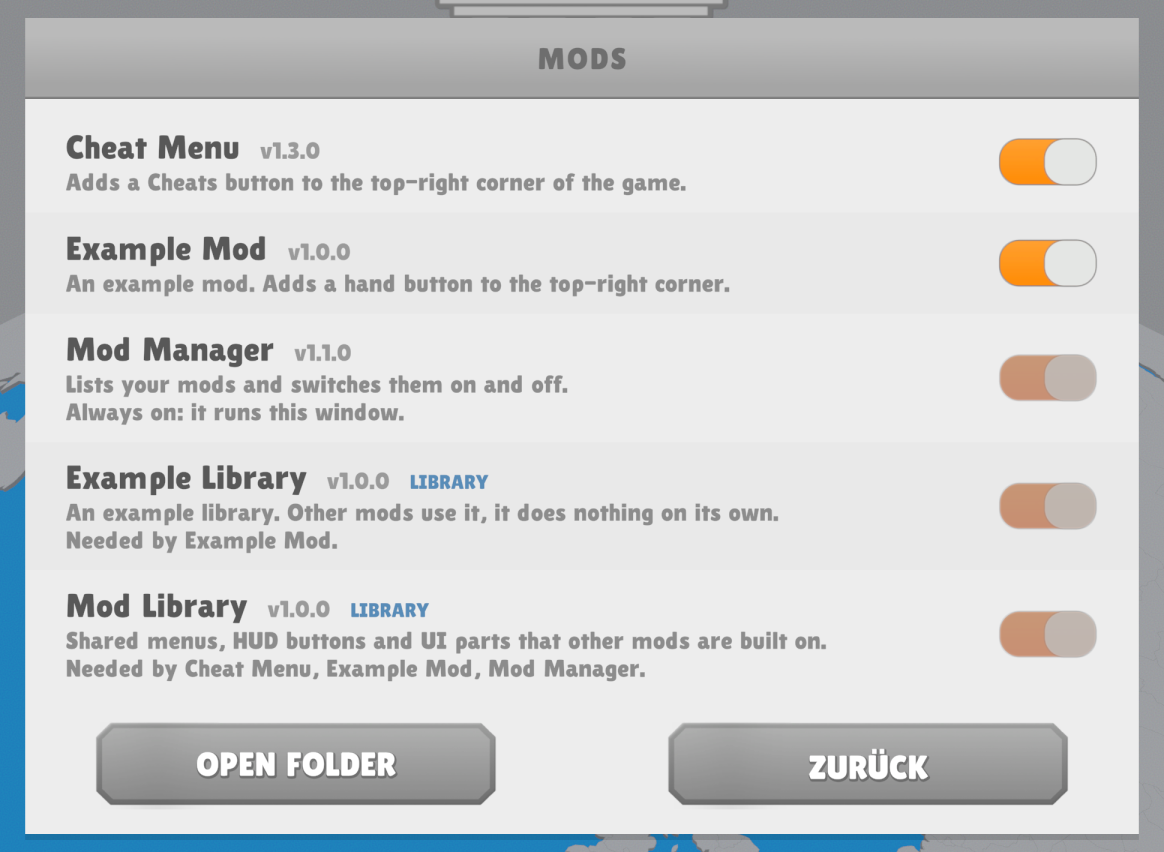
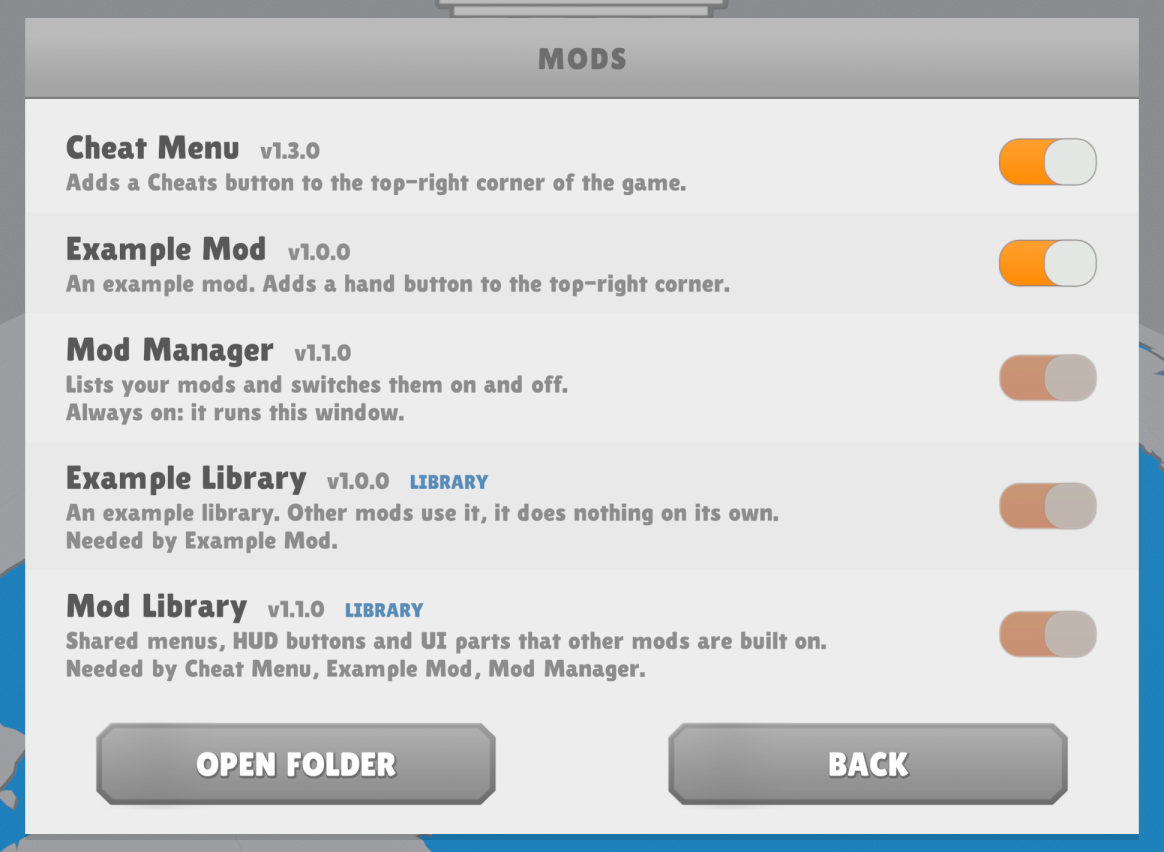
Retake screenshots in English and center the main menu image

diff --git a/README.md b/README.md
@@ -24,17 +24,17 @@ Mods can declare which other mods they need. When you turn one on, everything it
 
 The Mod Manager itself and the [Mod Library](https://github.com/Mindus1/lawgivers2-mod-library) it's built on are always on. To get rid of them, delete their DLLs.
 
-<img src="docs/main-menu.png" alt="The MODS button in the main menu" width="300" align="right">
-
 ## Installation
 
 1. Install [BepInEx 6 for IL2CPP](https://builds.bepinex.dev/projects/bepinex_be) (x64, build 790 or newer) and start the game once so it can set itself up.
 2. Download `ModManager.dll` from [Releases](../../releases) and `ModLibrary.dll` from the [Mod Library](https://github.com/Mindus1/lawgivers2-mod-library).
 3. Put both into `Lawgivers II\BepInEx\plugins`.
 
-The MODS button sits right below Settings. If it doesn't show up, `BepInEx\LogOutput.log` usually says why.
+The MODS button sits right below Settings, both in the main menu and in the pause menu. If it doesn't show up, `BepInEx\LogOutput.log` usually says why.
 
-<br clear="right">
+<p align="center">
+  <img src="docs/main-menu.png" alt="The MODS button in the main menu" width="360">
+</p>
 
 ## For mod authors
 
